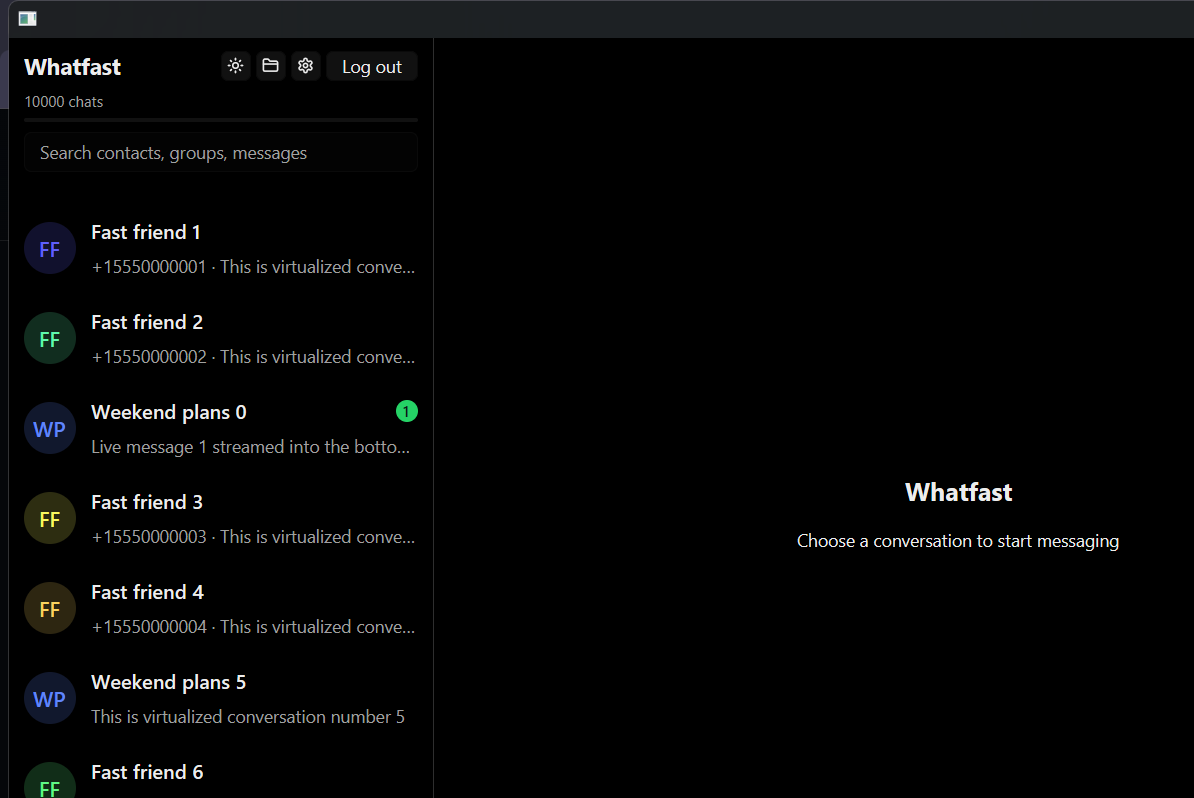
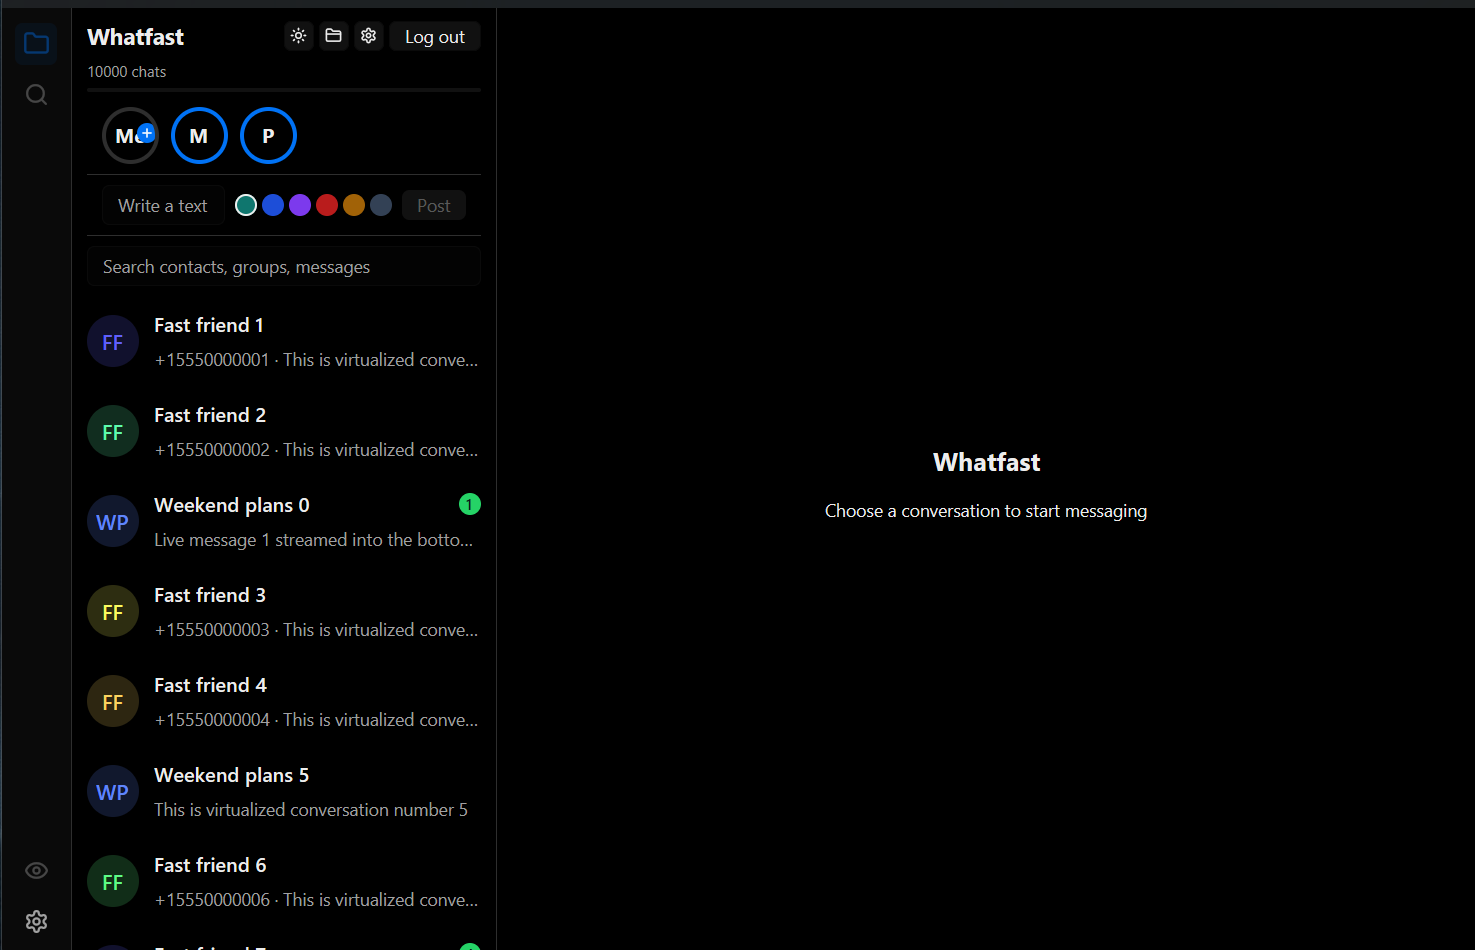
docs: the captures of the whole window and the measured numbers of the final build

diff --git a/crates/whatfast-ui/src/render.rs b/crates/whatfast-ui/src/render.rs
@@ -1074,10 +1074,51 @@ impl Whatfast {
                 div()
                     .flex_1()
                     .min_h_0()
+                    .relative()
                     .bg(conversation_background)
                     .on_scroll_wheel(cx.listener(|this, event, window, cx| {
                         this.handle_smooth_scroll_input(ScrollSurface::Messages, event, window, cx);
                     }))
+                    // The buttons that jump through the history float over
+                    // the list of the messages, the same way the web client
+                    // draws them.
+                    .when(has_older, |list| {
+                        list.child(
+                            div()
+                                .absolute()
+                                .top_2()
+                                .left_0()
+                                .right_0()
+                                .flex()
+                                .justify_center()
+                                .child(Button::new("older").label("Load older messages").on_click(
+                                    cx.listener(|this, _, _, cx| {
+                                        this.load_older_messages();
+                                        cx.notify();
+                                    }),
+                                )),
+                        )
+                    })
+                    .when(has_newer, |list| {
+                        list.child(
+                            div()
+                                .absolute()
+                                .bottom_2()
+                                .left_0()
+                                .right_0()
+                                .flex()
+                                .justify_center()
+                                .child(
+                                    Button::new("jump-latest")
+                                        .primary()
+                                        .label("Jump to latest messages")
+                                        .on_click(cx.listener(|this, _, _, cx| {
+                                            this.refresh_latest();
+                                            cx.notify();
+                                        })),
+                                ),
+                        )
+                    })
                     .child(
                         v_virtual_list(
                             cx.entity().clone(),
@@ -1140,45 +1181,6 @@ impl Whatfast {
                         .gap_2(),
                     ),
             )
-            .when(has_older, |column| {
-                // The button floats over the list, the same way the web client
-                // draws it: the composer always stays visible.
-                column.child(
-                    div()
-                        .absolute()
-                        .top_2()
-                        .left_0()
-                        .right_0()
-                        .flex()
-                        .justify_center()
-                        .child(Button::new("older").label("Load older messages").on_click(
-                            cx.listener(|this, _, _, cx| {
-                                this.load_older_messages();
-                                cx.notify();
-                            }),
-                        )),
-                )
-            })
-            .when(has_newer, |column| {
-                column.child(
-                    div()
-                        .absolute()
-                        .bottom_2()
-                        .left_0()
-                        .right_0()
-                        .flex()
-                        .justify_center()
-                        .child(
-                            Button::new("jump-latest")
-                                .primary()
-                                .label("Jump to latest messages")
-                                .on_click(cx.listener(|this, _, _, cx| {
-                                    this.refresh_latest();
-                                    cx.notify();
-                                })),
-                        ),
-                )
-            })
             .when(!connected, |column| {
                 column.child(
                     div()
@@ -1200,7 +1202,7 @@ impl Whatfast {
                 column.child(
                     div()
                         .absolute()
-                        .bottom(px(52. * self.ui_scale))
+                        .bottom(px(56. * self.ui_scale))
                         .left_0()
                         .right_0()
                         .h(px(24. * self.ui_scale))
@@ -1219,7 +1221,7 @@ impl Whatfast {
                 column.child(
                     div()
                         .absolute()
-                        .bottom(px(52. * self.ui_scale))
+                        .bottom(px(56. * self.ui_scale))
                         .left_0()
                         .right_0()
                         .child(
@@ -1264,7 +1266,7 @@ impl Whatfast {
                     // The composer has a fixed height and never shrinks: the
                     // list of the messages is the one that gives room.
                     .flex_shrink_0()
-                    .h(px(52. * self.ui_scale))
+                    .h(px(56. * self.ui_scale))
                     .border_t_1()
                     .border_color(cx.theme().border)
                     .child(
@@ -2156,7 +2158,7 @@ impl Whatfast {
                     .overflow_hidden()
                     .child(
                         h_flex()
-                            .h(px(52. * self.ui_scale))
+                            .h(px(56. * self.ui_scale))
                             .px_4()
                             .items_center()
                             .justify_between()

diff --git a/README.md b/README.md
@@ -58,14 +58,16 @@ dentro del repositorio.
 
 ### Lista de chats
 
-Chats, grupos, no leídos, fijados y el contador de sincronización por chat.
+La columna de iconos de la izquierda, la tira de estados, el buscador y la
+lista de chats (10.000 simulados, virtualizada).
 
 ![Lista de chats](docs/screenshots/01-lista-de-chats.png)
 
 ### Conversación
 
-Burbujas con altura variable, respuestas, reacciones, acuses de lectura,
-preview de links y la marca de la salida.
+El strip de las conversaciones abiertas arriba, las burbujas con altura
+variable, respuestas, reacciones, acuses de lectura, preview de links y el
+menú de cada mensaje.
 
 ![Conversación](docs/screenshots/02-conversacion.png)
 
@@ -87,23 +89,25 @@ celdas quedan sin medir y se explican por estructura.
 | | **Whatfast (nativo)** | **Whatfast (webview)** | **WhatsApp Web** | **App de Windows** |
 |---|---|---|---|---|
 | Motor de render | **GPUI (Rust), ninguno** | WebView2 del sistema | el de tu navegador | Chromium propio (Electron) |
-| Descarga para instalar | **33,2 MB** (10,6 la app + 22,6 el sidecar) | 33,1 MB | 0 (es una página) | trae su propio Chromium |
+| Descarga para instalar | **36,1 MB** (12,4 la app + 23,7 el sidecar) | 33,1 MB | 0 (es una página) | trae su propio Chromium |
 | JS que baja el cliente | **0 KB** | 411 KB (127 KB con gzip) | **5.948 KB** solo la pantalla de login | — |
-| Ventana visible | 0,70 s | **0,25 s** | — | — |
-| UI lista (lista de chats) | ~1,1 s | 1,16 s | — | — |
-| RAM del código propio (interfaz + sidecar) | **60,5 MB + 31,4 MB = 91,9 MB** | 25,6 MB + 31,8 MB = 57,4 MB | 79 MB de heap JS en la sola pantalla de login | — |
+| Ventana visible | 0,84 s | **0,25 s** | — | — |
+| UI lista (lista de chats) | ~1,0 s | 1,16 s | — | — |
+| RAM del código propio (interfaz + sidecar) | **60,7 MB + 31,6 MB = 92,3 MB** | 25,6 MB + 31,8 MB = 57,4 MB | 79 MB de heap JS en la sola pantalla de login | — |
 | RAM del motor de render | **0** (no hay) | 366,8 MB (WebView2, **compartido con Windows**) | el navegador ya abierto: **612,7 MB** medidos con Brave y 6 pestañas | — |
-| RAM total en reposo | **91,9 MB** | **432 MB** | el del navegador + la pestaña | — |
+| RAM total en reposo | **92,3 MB** | **432 MB** | el del navegador + la pestaña | — |
 | Base de datos | SQLite local, en tu disco | SQLite local | en el navegador | local, pero no tuya |
 | Credenciales en el proceso del render | nunca | nunca | sí | sí |
 
 Cómo se midió, para que puedas repetirlo:
 
 - **Whatfast**: `dist\whatfast.exe` lanzado con el sidecar real
-  (`--stdio`), 20 s después se suma el working set del árbol de procesos
-  (interfaz + `whatfast-backend`). Mediana de 3 corridas. La ventana se cuenta
-  desde `Start-Process` hasta que aparece el handle. La captura del código
-  propio es el binario de release.
+  (`scripts\medir.ps1 -ConSidecar`), 20 s después se suma el working set del
+  árbol de procesos (interfaz + `whatfast-backend`), sin las consolas
+  heredadas. Mediana de 3 corridas. La ventana se cuenta desde `Start-Process`
+  hasta que aparece el handle; la lista de chats, con
+  `scripts\medir-lista.ps1`. La captura del código propio es el binario de
+  release.
 - **La lista de chats**: se capturan los píxeles de la ventana cada 80 ms
   desde el arranque y se toma el primer cambio grande de la imagen.
 - **El cliente anterior**: las cifras están en el README de
@@ -120,15 +124,15 @@ Explorador o desde un instalador no hay consola y no aparecen.
 1. **No te descarga un segundo navegador.** La app no usa WebView2 ni
    Chromium: dibuja con GPUI, que es el motor de Zed. La app oficial de
    Windows, en cambio, trae su propio Chromium en el instalador.
-2. **La RAM total bajó de 432 MB a 91,9 MB.** El 85 % de los 432 MB del
+2. **La RAM total bajó de 432 MB a 92,3 MB.** El 85 % de los 432 MB del
    cliente anterior era el WebView2: 366,8 MB. Sin webview, esa fila es
-   cero. Los 91,9 MB que quedan son la interfaz (60,5 MB) y el sidecar
-   (31,4 MB), que son los mismos que ya usaba el cliente anterior.
+   cero. Los 92,3 MB que quedan son la interfaz (60,7 MB) y el sidecar
+   (31,6 MB), que son los mismos que ya usaba el cliente anterior.
 3. **No necesita el navegador abierto.** WhatsApp Web es una pestaña más: si
    tenés 40 pestañas, la de WhatsApp se lleva su parte de RAM y de CPU.
 4. **Cero JavaScript.** La pantalla de login de WhatsApp Web ya baja 5,8 MB
    de JavaScript; la app oficial viene con un motor entero adentro. Acá no
-   baja nada: la UI son 10,6 MB de binario nativo.
+   baja nada: la UI son 12,4 MB de binario nativo.
 5. **El historial es tuyo y es local.** SQLite en tu disco, con control de
    acceso y borrado explícito al desloguear.
 6. **El render nunca ve tus credenciales.** El token del dispositivo y las
@@ -142,10 +146,11 @@ Explorador o desde un instalador no hay consola y no aparecen.
 
 ## Dónde todavía pierde
 
-- **La ventana aparece 0,20 s más tarde** que en el cliente con webview
-  (0,70 s contra 0,25 s). El costo es la inicialización de la plataforma de
+- **La ventana aparece 0,59 s más tarde** que en el cliente con webview
+  (0,84 s contra 0,25 s). El costo es la inicialización de la plataforma de
   GPUI, no el código: la plataforma tarda 244 ms y abrir la ventana 246 ms;
-  el tema y `gpui_component` tardan 8 ms juntos.
+  el tema y `gpui_component` tardan 8 ms juntos. Los 0,5 s de la meta están
+  por debajo del piso de la plataforma.
 - **Sin notificaciones del sistema.** El cliente web avisa con un toast del
   sistema operativo cuando llega un mensaje de un chat silenciado. La regla
   de cuándo avisar ya está portada y probada (`whatfast-core`), pero falta
@@ -222,8 +227,9 @@ compilación cada uno, y usan `sccache` cuando está disponible.
 | Los tests | `scripts\test.cmd` |
 | El lint | `scripts\lint.cmd` |
 | La paridad con el cliente anterior | `python scripts\parity.py` |
+| La paridad funcional con el cliente web | `python scripts\funcionalidad.py` |
 | El mapa de dependencias | `python scripts\dependency-map.py` |
-| Las medidas de arranque y RAM | `powershell -File scripts\medir.ps1` |
+| Las medidas de arranque y RAM | `powershell -File scripts\medir.ps1 -ConSidecar` |
 | Las capturas | `powershell -File scripts\capturas.ps1` |
 
 ---
